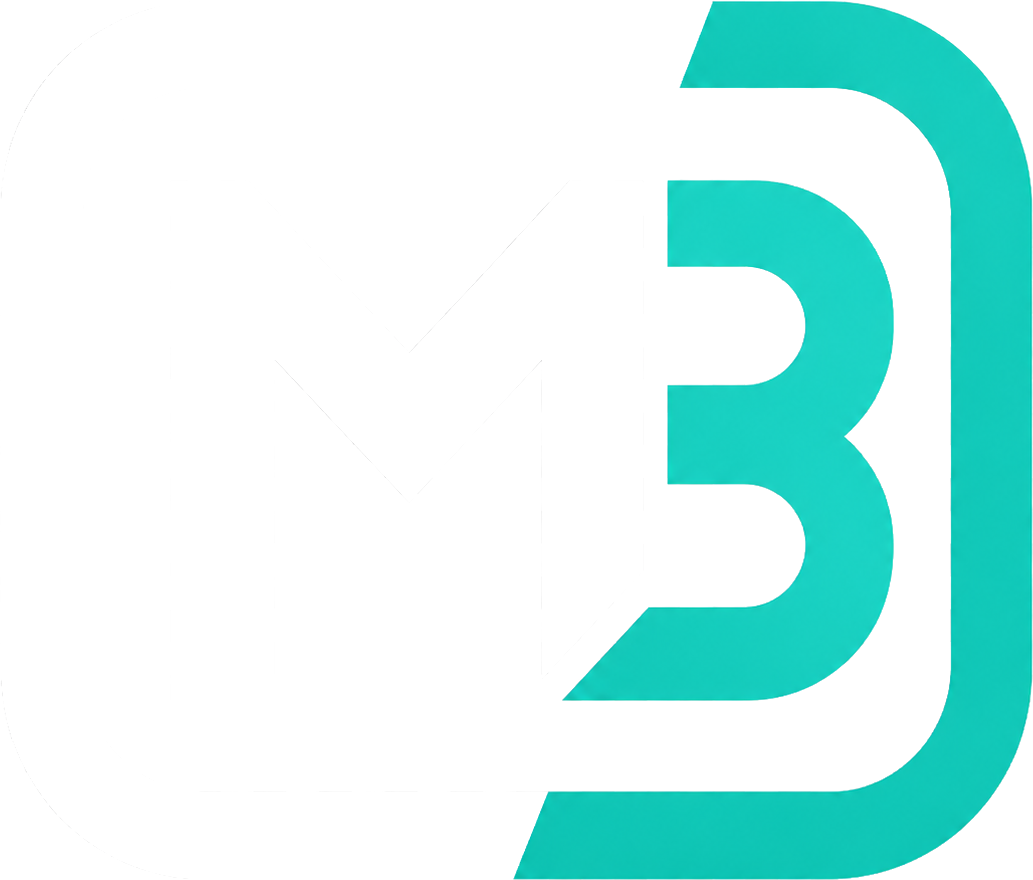
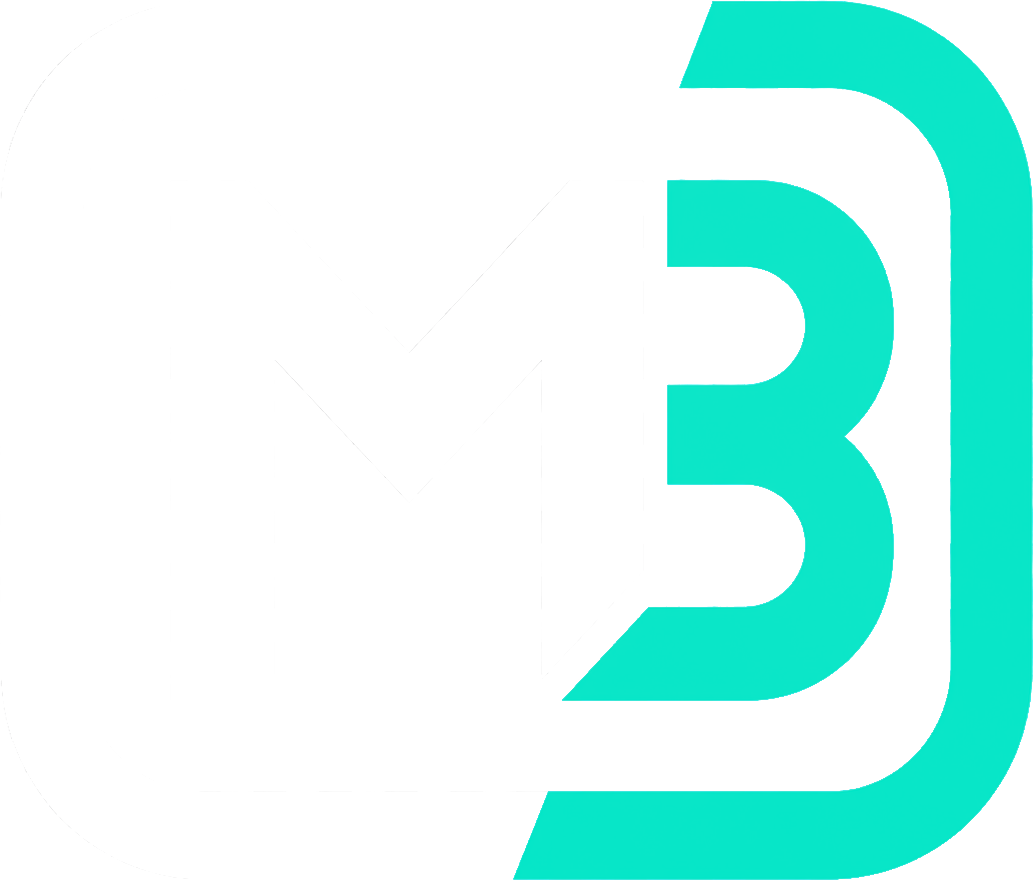
fix(brand): boost cyan saturation + cache-bust query
원인: 새 로고는 모든 글자가 시안 톤이었으나 채도 부족으로
다크 배경에 묻힘. 검정→흰색 변환은 작동 대상 픽셀 0개.

처리:
- 시안 픽셀 (G-R>15 || B-R>15) 채도/명도 강화
  · R = min(R*0.5, 60)
  · G = max(G, 230)
  · B = max(B, 200)
  → 밝은 형광 시안으로 또렷이
- 무채색 어두운 픽셀(보험) → (245,248,255)
- 흰배경 알파 0 + bbox crop 유지

LoginPage:
- 로고 src 에 ?v=3 (브라우저/CDN 캐시 회피)
- drop-shadow 검정 → 시안 (rgba(45,212,191,.35)) 글로우

diff --git a/src/pages/LoginPage.tsx b/src/pages/LoginPage.tsx
@@ -321,14 +321,14 @@ const LoginPage = () => {
 
   return (
     <div className="flex min-h-screen flex-col items-center justify-center px-6 py-8">
-      {/* Logo — MB 아이콘 + 풀 로고 (투명 PNG). 흰 배경 제거됨 */}
+      {/* Logo — MB 아이콘 + 풀 로고. v=3 = 다크 배경 가독성 보정본 (캐시 회피) */}
       <div className="mb-5 animate-bounce-in text-center">
         <img
-          src="/assets/brand/myboxer_logo_full.png"
+          src="/assets/brand/myboxer_logo_full.png?v=3"
           alt="MY BOXER 마이복서 by 153 BOXING GYM"
           draggable={false}
           className="mx-auto mb-1 h-16 w-auto select-none object-contain sm:h-20"
-          style={{ filter: "drop-shadow(0 4px 14px rgba(0,0,0,0.35))" }}
+          style={{ filter: "drop-shadow(0 0 18px rgba(45, 212, 191, 0.35))" }}
         />
         <p className="mt-2 text-xs text-muted-foreground">
           153복싱짐 회원을 위한 복싱 성장 퀘스트 앱
@@ -451,7 +451,7 @@ const LoginPage = () => {
                 {isSignUp ? (tab === "coach" ? "관장님 가입" : "회원가입") : "로그인"}
               </span>
               <img
-                src="/assets/brand/myboxer_logo_icon.png"
+                src="/assets/brand/myboxer_logo_icon.png?v=3"
                 alt=""
                 aria-hidden="true"
                 draggable={false}
